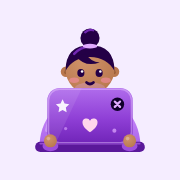
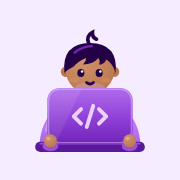
Remove the background patterns and make the mascot gender-neutral
Drops the brand pattern (and the pricing dot grid) from every section and
the share image. Xpert gets short tousled hair instead of a bun, softer
cheeks, and a plain laptop with a glowing </> mark instead of stickers.

Claude-Session: https://claude.ai/code/session_012Rzw1pCt5xZ8fwkbxETP5X

diff --git a/public/xpert.js b/public/xpert.js
@@ -1,13 +1,13 @@
-// Xpert, the brand mascot: a little person typing away behind a laptop, as a live SVG.
+// Xpert, the brand mascot: a little character typing away behind a laptop, as a live SVG.
 // Everything is drawn once and CSS shows the state that matches data-mood:
 //   look   - typing calmly, eyes on the screen
 //   typing - typing fast, little bits of code floating up
 //   wave   - one hand up, waving hello
 //   think  - hands still, eyes up, thought bubbles
-//   party  - both hands up, sparkles and a heart
+//   party  - both hands up, with sparkles
 //   closed - ducked down behind the laptop (peekaboo)
 //   sleepy - head resting on the laptop, Zzz
-// The lid faces us (its back, with stickers), so the person's face peeks over it.
+// The lid faces us (its back, with a glowing </> mark), so the character's face peeks over it.
 // See "Xpert, the brand mascot" in styles.css. The static logo is /mascot.svg.
 
 const reducedMotion = () => window.matchMedia('(prefers-reduced-motion: reduce)').matches;
@@ -41,13 +41,10 @@ export function xpert(mood = 'look', { size = 96, cls = '' } = {}) {
       <circle cx="20.4" cy="15.2" r="1.1" fill="#9a5e38"/><circle cx="43.6" cy="15.2" r="1.1" fill="#9a5e38"/>
       <circle cx="32" cy="14" r="12" fill="url(#${id}-skin)"/>
       <ellipse cx="32" cy="23.4" rx="7.6" ry="3.2" fill="#e0aaff" opacity=".28"/>
-      <circle cx="32" cy="-1.6" r="4.7" fill="${INK}"/>
-      <path d="M29.6-4.4q1.8-1.6 4-1" stroke="#7b2cbf" stroke-width="1.1" fill="none" stroke-linecap="round" opacity=".9"/>
-      <path d="M20 14.5q0-12.5 12-12.5t12 12.5q-3.5-6.5-12-6.8-8.5.3-12 6.8z" fill="${INK}"/>
-      <path d="M25.4 7.6q4.2 5.4 11.4 2.8-4.6-.3-7-4.4z" fill="${INK}"/>
-      <path d="M24.2 6.2q3-3.2 7.4-3.6" stroke="#7b2cbf" stroke-width="1.2" fill="none" stroke-linecap="round" opacity=".9"/>
-      <ellipse cx="32" cy="2.4" rx="3.6" ry="1.15" fill="#e0aaff"/>
-      <ellipse cx="24.2" cy="19.2" rx="2.4" ry="1.35" fill="#ff8fb1" opacity=".5"/><ellipse cx="39.8" cy="19.2" rx="2.4" ry="1.35" fill="#ff8fb1" opacity=".5"/>
+      <path d="M19.4 15.4q-1.4-14.4 12.6-14.6 14 .2 12.6 14.6-1.6-4.6-4.6-6.4-.8 2.2-3.4 2.6.6-1.8-.4-3.4-2.6 3-7.6 3.2 1.4-1.4 1.6-3.2-3.8 1.2-6.4 4.4-2.2 1-4.4 2.8z" fill="${INK}"/>
+      <path d="M31.4 1.2q-1.6-3.8 1.8-5.6-.2 2.4 2 3.4" stroke="${INK}" stroke-width="1.8" fill="none" stroke-linecap="round"/>
+      <path d="M24.4 5.6q3.4-3 8.4-3.2" stroke="#7b2cbf" stroke-width="1.2" fill="none" stroke-linecap="round" opacity=".9"/>
+      <ellipse cx="24.2" cy="19.2" rx="2.3" ry="1.2" fill="#f2946e" opacity=".28"/><ellipse cx="39.8" cy="19.2" rx="2.3" ry="1.2" fill="#f2946e" opacity=".28"/>
       <g class="xp-face xp-eyes">
         <ellipse cx="27.5" cy="15.6" rx="1.75" ry="2" fill="${INK}"/><ellipse cx="36.5" cy="15.6" rx="1.75" ry="2" fill="${INK}"/>
         <circle cx="28.1" cy="14.9" r=".62" fill="#fff"/><circle cx="37.1" cy="14.9" r=".62" fill="#fff"/>
@@ -66,10 +63,7 @@ export function xpert(mood = 'look', { size = 96, cls = '' } = {}) {
       <rect x="11" y="23" width="42" height="27.5" rx="6" fill="url(#${id}-lid)"/>
       <g clip-path="url(#${id}-lidclip)"><path d="M11 23h17L15 50.5h-4z" fill="#fff" opacity=".09"/></g>
       <rect x="11.6" y="23.6" width="40.8" height="26.3" rx="5.4" fill="none" stroke="#e9c8ff" stroke-width=".7" opacity=".45"/>
-      <path d="M32 44.8s-3.7-2.3-3.7-4.7a1.95 1.95 0 0 1 3.7-1 1.95 1.95 0 0 1 3.7 1c0 2.4-3.7 4.7-3.7 4.7z" fill="#ffd6ec"/>
-      <path d="M18.5 28.5l1 2.1 2.3.4-1.7 1.6.4 2.3-2-1.1-2 1.1.4-2.3-1.7-1.6 2.3-.4z" fill="#fff" opacity=".92"/>
-      <g transform="translate(45.5 31)"><circle r="3.3" fill="#10002b"/><path d="M-1.3-1.3l2.6 2.6m0-2.6-2.6 2.6" stroke="#e0aaff" stroke-width="1.1" stroke-linecap="round"/></g>
-      <circle cx="44" cy="44" r="1" fill="#e0aaff" opacity=".7"/><circle cx="20" cy="43" r=".8" fill="#e0aaff" opacity=".6"/>
+      <path d="M27.6 33.4l-3.6 3.6 3.6 3.6M36.4 33.4l3.6 3.6-3.6 3.6M33.6 31.8l-3.2 10.4" stroke="#f3e1ff" stroke-width="1.9" fill="none" stroke-linecap="round" stroke-linejoin="round" opacity=".9"/>
     </g>
   </g>
   <g class="xp-hands">${hand('l', 12.5)}${hand('r', 51.5)}
@@ -86,7 +80,6 @@ export function xpert(mood = 'look', { size = 96, cls = '' } = {}) {
   <g class="xp-extra xp-spark" fill="#c77dff">
     <path d="M2 4l1.5 3.5L7 9 3.5 10.5 2 14 .5 10.5-3 9 .5 7.5z"/>
     <path d="M64 6l1.2 2.8L68 10l-2.8 1.2L64 14l-1.2-2.8L60 10l2.8-1.2z"/>
-    <path d="M14-.5s-3-1.8-3-3.8a1.6 1.6 0 0 1 3-.8 1.6 1.6 0 0 1 3 .8c0 2-3 3.8-3 3.8z" fill="#ff9fb8"/>
   </g>
 </svg>`;
 }

diff --git a/public/styles.css b/public/styles.css
@@ -823,16 +823,13 @@ input:focus, textarea:focus, select:focus { border-color: var(--p400); outline: 
   .xpert *, .seat.drop, .team-list li.joined, .team-list li.open-spot .avatar, .xp-poke, .xp-bubble { animation: none !important; transition: none !important; }
 }
 
-/* Pricing, night edition: a deep purple band with soft glows and a faint dot grid.
+/* Pricing, night edition: a deep purple band with soft glows.
    Plans are glass cards; the most popular plan is inverted (light on dark) so it glows. */
 .pricing-band { position: relative; isolation: isolate; padding-block: 88px 96px; color: #f3e8ff;
   background:
     radial-gradient(560px 360px at 12% 8%, rgb(90 24 154 / 55%), transparent 70%),
     radial-gradient(640px 420px at 92% 88%, rgb(123 44 191 / 40%), transparent 70%),
     linear-gradient(180deg, #10002b, #1a0038 60%, #10002b); }
-.pricing-band::before { content: ''; position: absolute; inset: 0; z-index: -1; pointer-events: none;
-  background-image: radial-gradient(rgb(224 170 255 / 16%) 1px, transparent 1.4px); background-size: 24px 24px;
-  -webkit-mask-image: radial-gradient(ellipse at center, #000 30%, transparent 75%); mask-image: radial-gradient(ellipse at center, #000 30%, transparent 75%); }
 .pricing-head { text-align: center; margin-bottom: 36px; }
 .pricing-kicker { margin: 0 0 6px; font-size: .75rem; font-weight: 700; letter-spacing: .24em; text-transform: uppercase; color: var(--p300); }
 .section.pricing-band h2 { color: #fff; margin: 0; font-size: clamp(2.2rem, 4vw, 3rem); }
@@ -971,21 +968,6 @@ input:focus, textarea:focus, select:focus { border-color: var(--p400); outline: 
   background: linear-gradient(90deg, rgb(16 0 43 / 80%) 0%, rgb(16 0 43 / 45%) 55%, rgb(60 9 108 / 25%) 100%); }
 @media (max-width: 640px) { .seo-hero.seo-hero-fs { background: var(--p900); } .seo-hero-fs::before { background: rgb(16 0 43 / 62%); } }
 
-/* Signature brand pattern: code brackets, braces, sparkles and the X, tiled very faintly.
-   pattern-on-dark.svg is for purple/dark surfaces, pattern-on-light.svg for light ones. */
-:root { --pattern-dark: url('/images/pattern-on-dark.svg'); --pattern-light: url('/images/pattern-on-light.svg'); }
-.footer { background: var(--pattern-dark) 0 0 / 200px, var(--p900); }
-[data-theme="dark"] .footer { background: var(--pattern-dark) 0 0 / 200px, #0a0020; }
-.cta { background: var(--pattern-dark) 0 0 / 200px, radial-gradient(600px 320px at 85% 120%, rgb(157 78 221 / 55%), transparent 70%), radial-gradient(500px 260px at 0% -20%, rgb(90 24 154 / 50%), transparent 70%), var(--p900); }
-.seo-band { background: var(--pattern-dark) 0 0 / 200px, var(--p900); }
-.xp-party { background: var(--pattern-dark) 0 0 / 200px, linear-gradient(135deg, var(--p900), var(--p700)); }
-.pricing-band::before { background-image: var(--pattern-dark); background-size: 200px; }
-/* Light surfaces: the pattern fades out from the middle so text stays clean */
-.how-line { position: relative; isolation: isolate; }
-.how-line::before, .xp-sleepy::before { content: ''; position: absolute; inset: 0; z-index: -1; pointer-events: none; background: var(--pattern-light) 0 0 / 200px;
-  -webkit-mask-image: radial-gradient(ellipse at center, transparent 20%, #000 75%); mask-image: radial-gradient(ellipse at center, transparent 20%, #000 75%); }
-.xp-sleepy { position: relative; isolation: isolate; overflow: hidden; }
-[data-theme="dark"] .how-line::before, [data-theme="dark"] .xp-sleepy::before { background-image: var(--pattern-dark); }
 
 /* Contact email in the menu bar: the full address on wide screens and when the links fold
    into the menu, just the envelope in between; on phones it lives in the menu drawer. */

diff --git a/public/app.js b/public/app.js
@@ -601,8 +601,8 @@ async function viewHome() {
   bindHowTrack();
 }
 
-// Xpert in the hero: the laptop opens to say hello, types along while someone describes
-// their idea, shows a heart once the idea is long enough, and blinks its lid when poked.
+// Xpert in the hero: waves hello, types faster while someone describes their idea, cheers
+// once the idea is long enough, and ducks behind the laptop when poked.
 function bindHeroXpert() {
   const poke = document.getElementById('hero-xpert');
   const svg = poke.querySelector('.xpert');

diff --git a/README.md b/README.md
@@ -17,13 +17,12 @@ Your tech team, on your timeline. Clients describe what they're building, set a 
 
 **Platform**
 - A minimal landing page: a photo hero with a hire/join finder, a rotating "On demand" line, role photos, "How it works" in one line, pricing packages, a team builder that prices a custom team, and a developer call to action. Prices (senior hourly rates by role, mid/expert multipliers, packages and the promises row) are set in `ROLE_RATES`, `LEVELS`, `PACKAGES` and `PROMISES` in `public/app.js`.
-- **Xpert, the mascot** (`public/xpert.js`): a little person typing on a laptop, peeking over the lid. It waves hello on the hero, types faster (with bits of code floating up) while a client describes their idea, cheers with both hands up when the idea is long enough, ducks behind the laptop and pops back up when clicked, thinks while the AI scopes a job, celebrates (with confetti) when a job goes live, and dozes on the laptop on the not-found and offline screens. The logo (`public/mascot.svg`) taps the keys a few times on load. Motion is skipped when the visitor prefers reduced motion.
+- **Xpert, the mascot** (`public/xpert.js`): a little character typing on a laptop, peeking over the lid. It waves hello on the hero, types faster (with bits of code floating up) while a client describes their idea, cheers with both hands up when the idea is long enough (the character is gender-neutral, and the laptop carries a plain glowing `</>` mark), ducks behind the laptop and pops back up when clicked, thinks while the AI scopes a job, celebrates (with confetti) when a job goes live, and dozes on the laptop on the not-found and offline screens. The logo (`public/mascot.svg`) taps the keys a few times on load. Motion is skipped when the visitor prefers reduced motion.
 - **Team forming:** in the team builder, each person you add drops into one of five seats; on a job page, new team members pop into place and open seats gently pulse.
 - **World map** of where clients and experts are, drawn from a dot grid (`public/images/world-dots.svg`, made from the public-domain Natural Earth land outline) with glowing city pins and arcs.
 - **How it works timeline:** Idea → Team → Launch, filling in as you scroll.
 - **Role icons** in the team builder, its seats and the role photos.
 - **Vetted & interviewed badge** on developer cards and profiles. It only shows for developers marked as vetted: new sign-ups start unvetted, and developers can't set it themselves. To mark one after their interviews, run this in the D1 console (Cloudflare dashboard → D1 → techxperts → Console): `UPDATE developer_profiles SET vetted = 1 WHERE user_id = (SELECT id FROM users WHERE email = 'dev@example.com');`. With `DEMO_DATA = "true"`, the demo developers are marked vetted.
-- **Signature pattern:** a faint tile of code brackets, braces, sparkles and the X (`public/images/pattern-on-dark.svg` for purple surfaces, `pattern-on-light.svg` for light ones). It's used on the footer, the dark bands and call-to-action cards, the pricing section, How it works, the not-found screen and the share image.
 - A developer directory you can search and filter.
 - Role-based access: clients only see their own jobs. Developers see recruiting jobs and jobs they're on. Only the client and the team can message in a job room.
 - Light and dark themes, and a responsive layout down to phone width.
